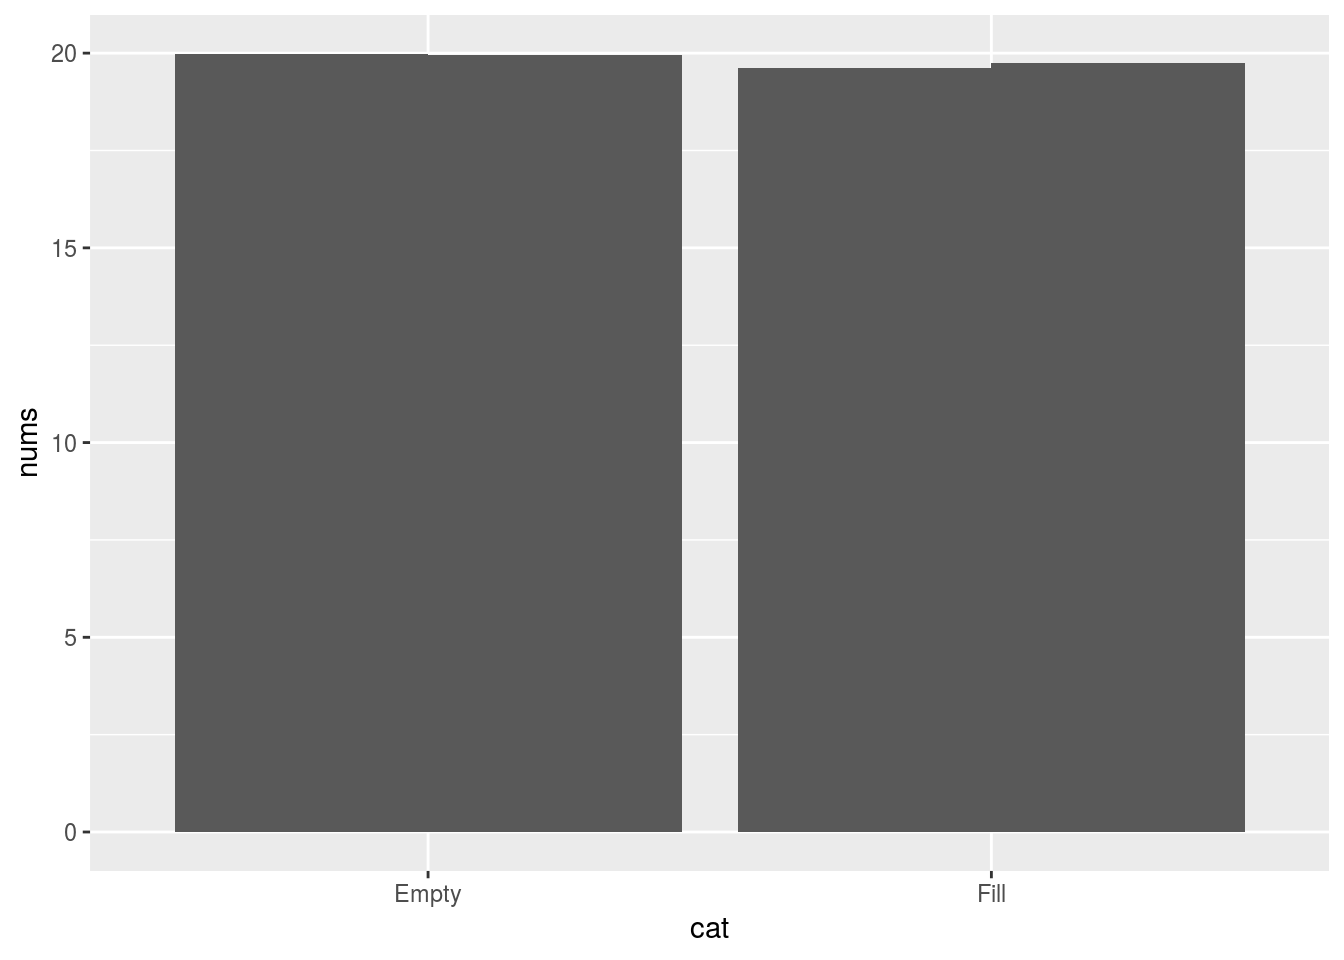
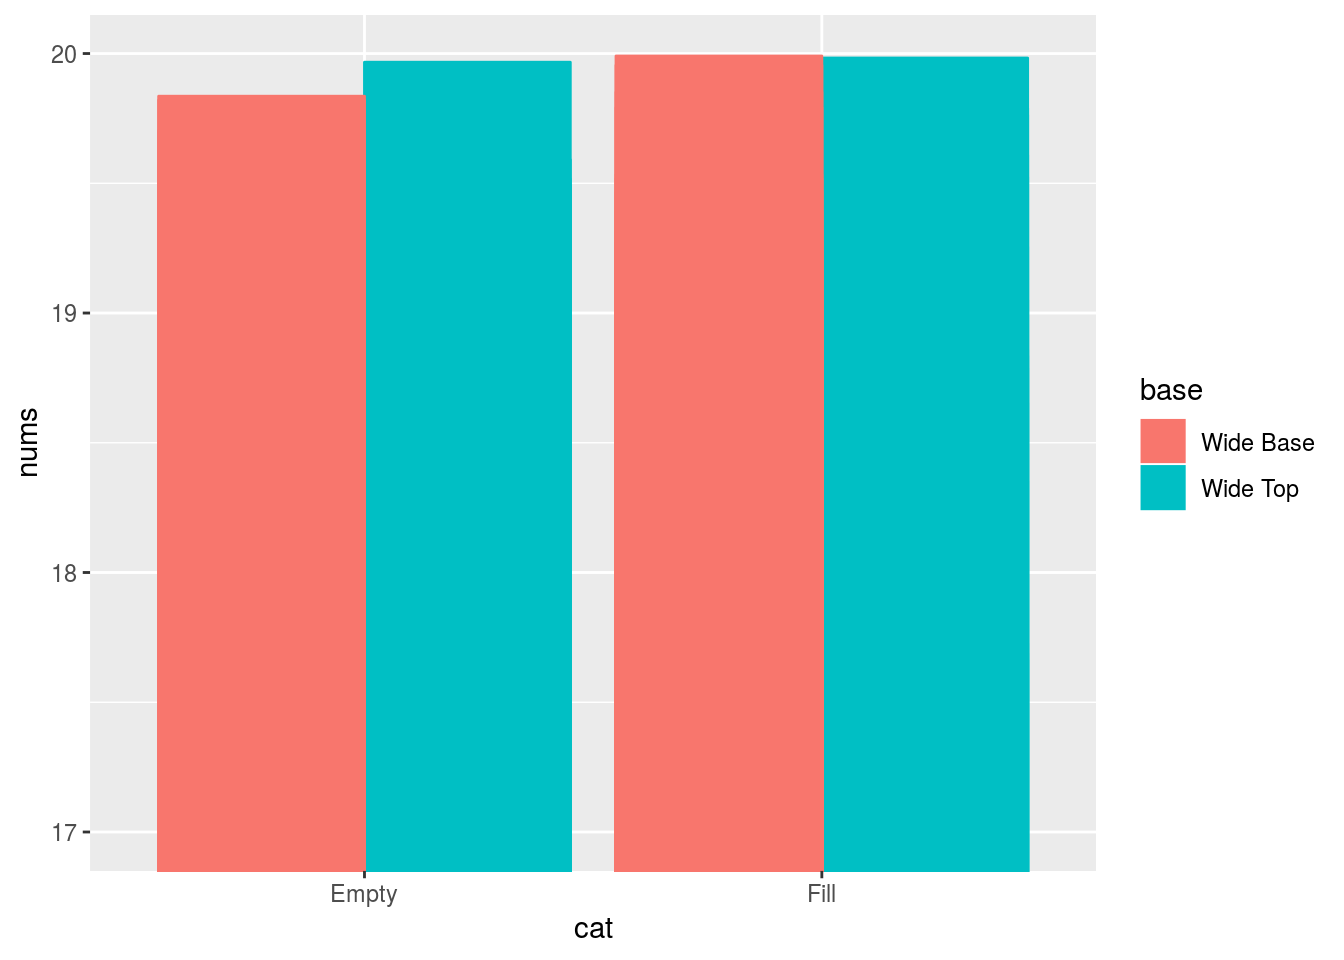
Adding color and definitions to the data bar graph, separating it into groups.

diff --git a/docs/Plots.html b/docs/Plots.html
@@ -465,11 +465,11 @@ c+labs(x=&quot;Average Frequency of Nonsocial Risk&quot;,y=&quot;Average Frequen
 <div id="cup-bar-graph-wide-basewide-top" class="section level3">
 <h3>Cup Bar Graph (Wide Base/Wide Top)</h3>
 <pre class="r"><code>nums&lt;-runif(100,17,20)
-cat&lt;-as.factor(rep(c(&quot;Fill&quot;,&quot;Empty&quot;),each=2,times=25))
-base&lt;-as.factor(rep(c(&quot;Wide Base&quot;,&quot;Wide Top&quot;),each=20,len=100))
+cat&lt;-as.factor(rep(c(&quot;Fill&quot;,&quot;Empty&quot;),each=15,len=100))
+base&lt;-as.factor(rep(c(&quot;Wide Base&quot;,&quot;Wide Top&quot;),each=45,len=100))
 plot_dd&lt;-data.frame(nums,cat,base)
 
-ggplot(plot_dd,aes(cat,nums,group=base))+geom_bar(stat = &quot;identity&quot;,position = &quot;dodge&quot;)</code></pre>
+ggplot(plot_dd,aes(cat,nums,group=base,color=base,fill=base))+geom_bar(stat = &quot;identity&quot;,position = &quot;dodge&quot;)+coord_cartesian(ylim = c(17,20))</code></pre>
 <p><img src="Plots_files/figure-html/unnamed-chunk-5-1.png" width="672" /></p>
 </div>
 </div>
